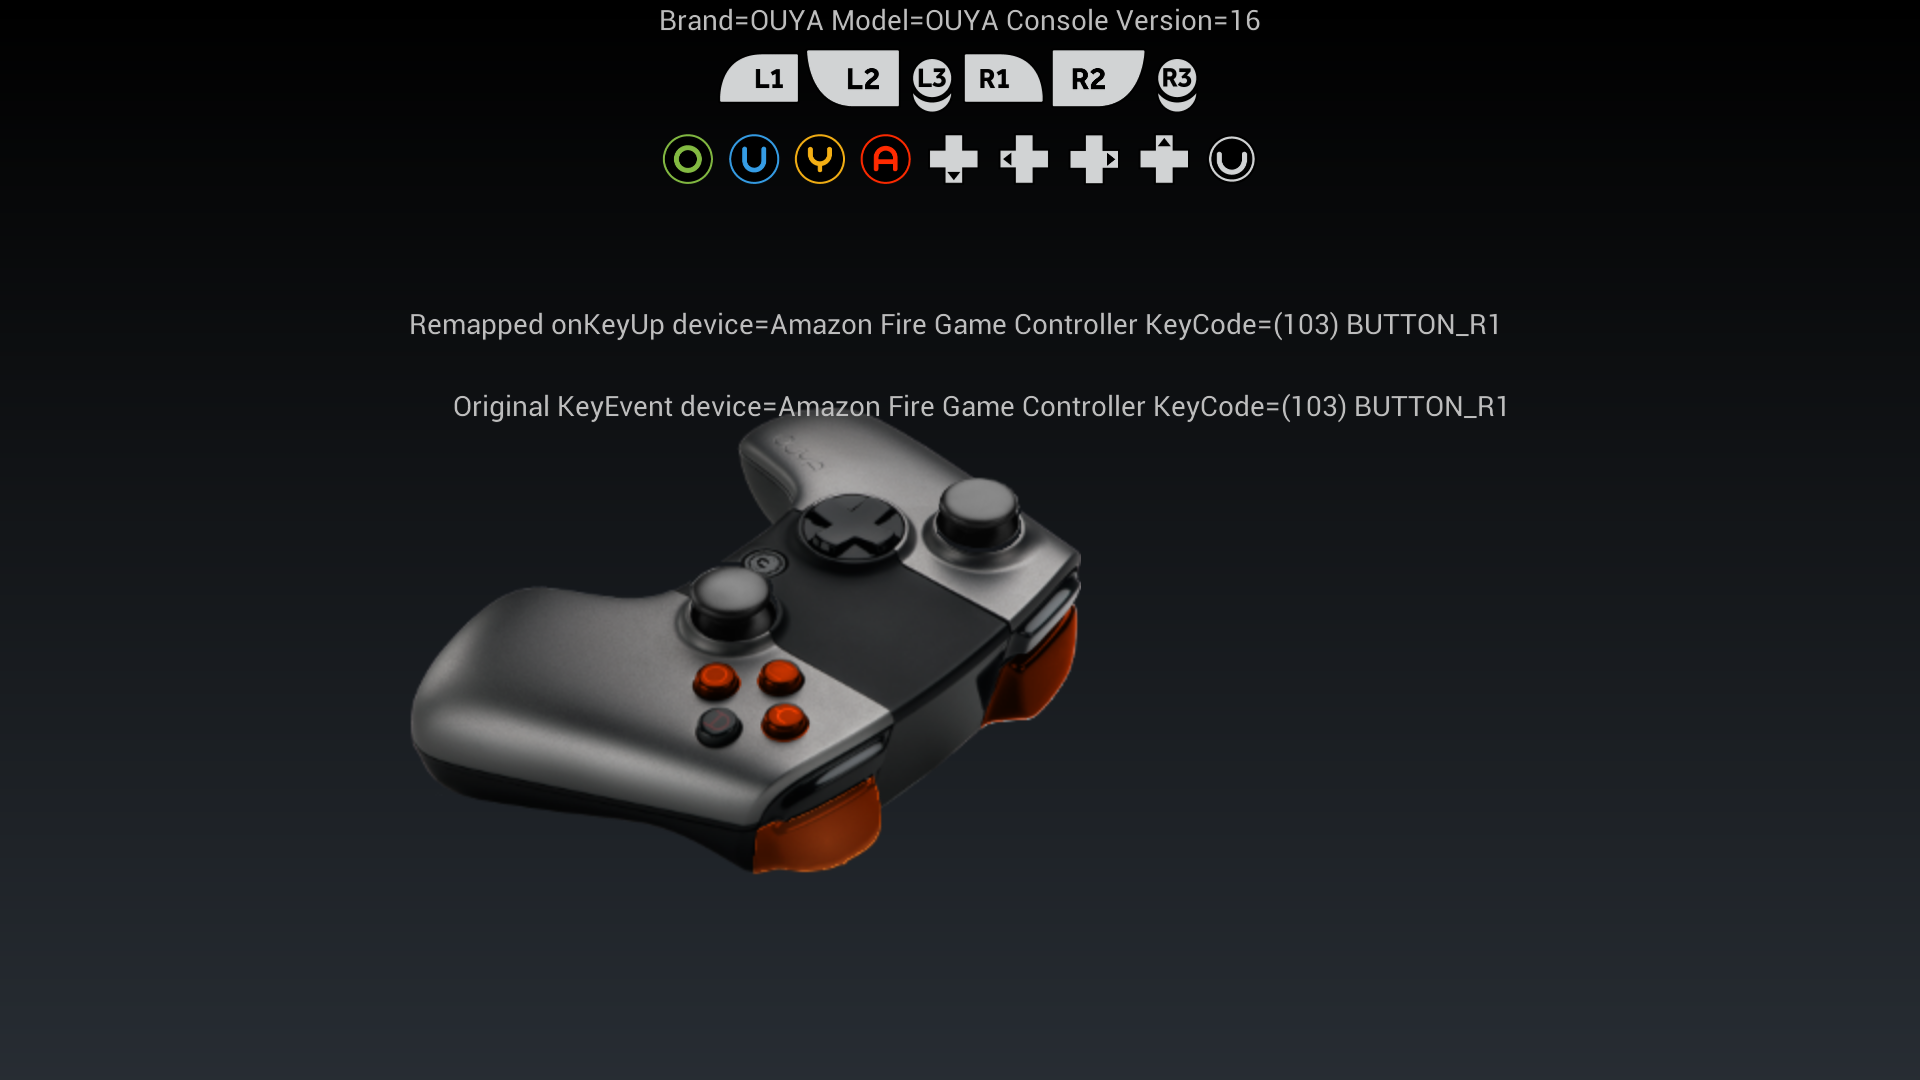
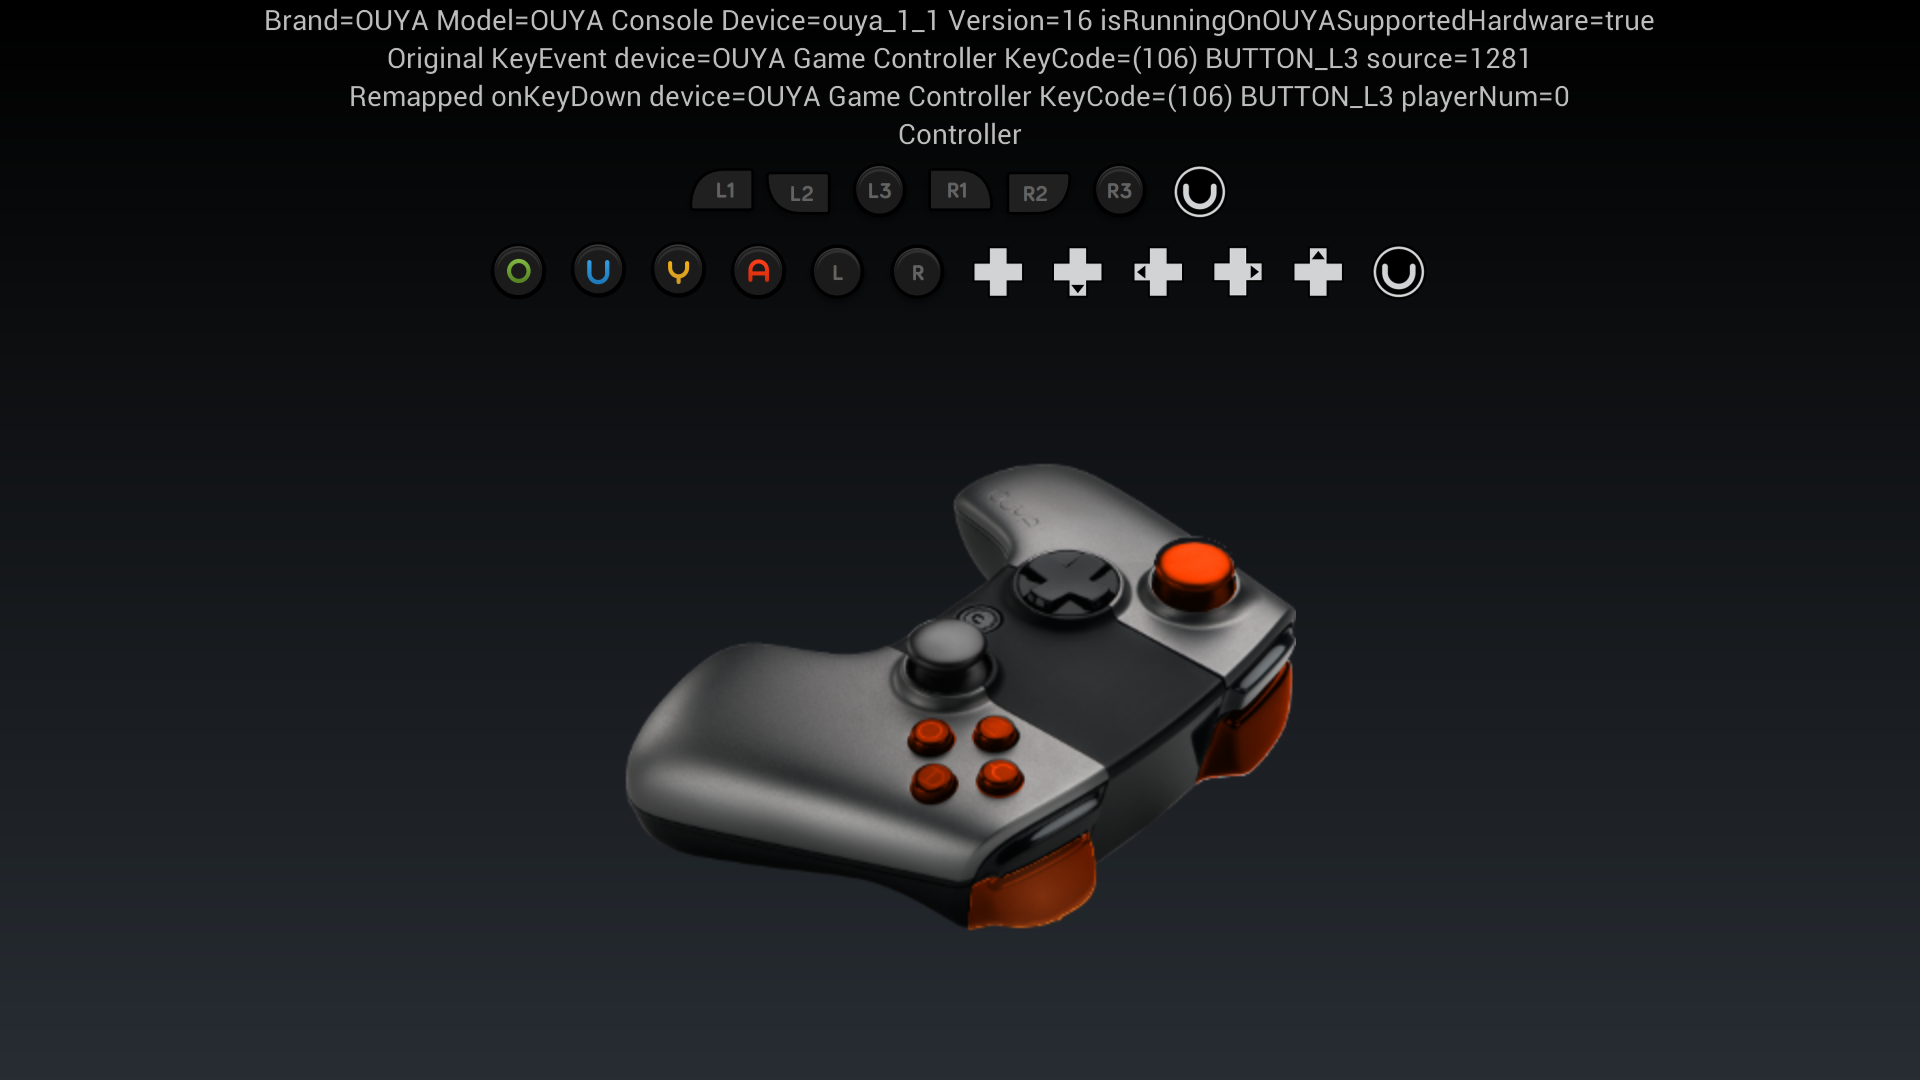
Updated example screenshots

Changed region(s): [[0.1875, 0.3667, 0.7812, 0.8861], [0.125, 0.0, 0.875, 0.3056]]

diff --git a/java.md b/java.md
@@ -139,6 +139,10 @@ The `AndroidVirtualController` source code can be found within the [ouya-sdk-exa
 
 ![image alt text](ouya-everywhere-android-java/image_0.png)
 
+The `AndroidVirtualController` example uses the `OuyaController.getButtonData` API to display device specific controller images.
+
+![image alt text](ouya-everywhere-android-java/image_2.png)
+
 # Android Virtual Controller Project #
 
 The project has a small number of key files that makes the example work.
@@ -452,3 +456,9 @@ When the button is no longer pressed the ImageView for the highlighted button is
 		return true;
 	}
 ```
+
+# Razer Virtual Controller Example #
+
+The `RazerVirtualController` example includes virtual controller images and mappings for the Razer Serval Controller. The `RazerVirtualController` source code can be found within the [ouya-sdk-examples](https://github.com/ouya/ouya-sdk-examples/tree/master/Android/RazerVirtualController).
+
+![image alt text](ouya-everywhere-android-java/image_3.png)
